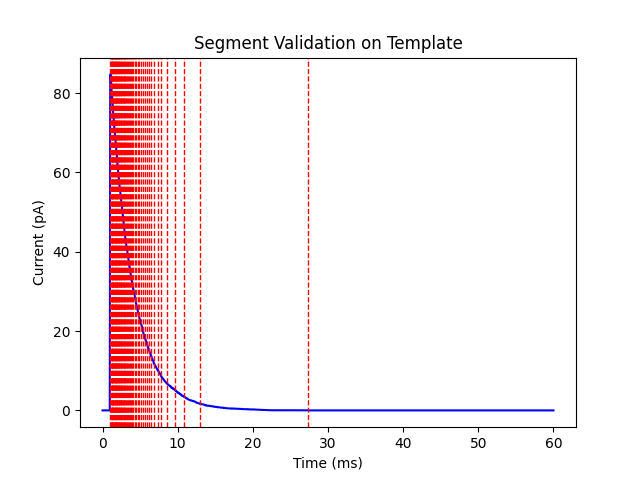
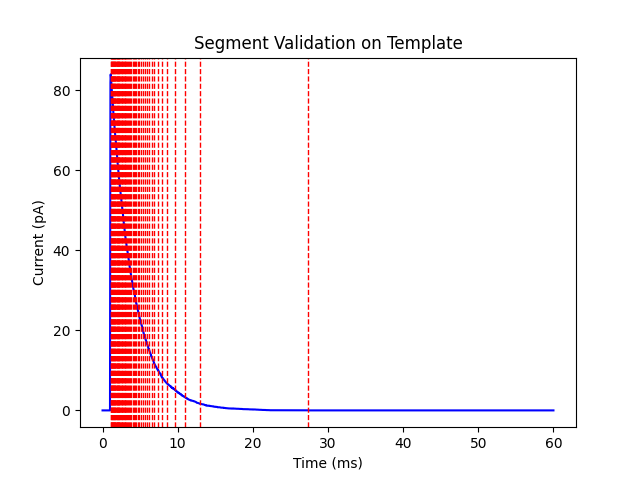
implementation of geiger

diff --git a/experimental-scripts/Geiger-Replication.py b/experimental-scripts/Geiger-Replication.py
@@ -1,0 +1,186 @@
+# Re-run the Gillespie simulation and plotting for the more complex Geiger model
+import numpy as np
+import matplotlib.pyplot as plt
+import pandas as pd
+from scipy.integrate import solve_ivp
+
+
+# Rate Constants
+kC0C1 = 17.1e6 #m-1s-1
+kC1C0 = 157
+kC1C2 = 3.24e6
+kC2C1 = 3.76e3
+kC2O = 14.9e3
+kOC2 = 4e3
+kC1C3 = 1.53e3
+kC3C1 = 408
+kC2C4 = 502
+kC4C2 = .377
+kOC5 = 121
+kC5O = 191
+kC3C4 = .611e6
+kC4C3 = 2
+kC4C5 = 1.59e3
+kC5C4 = 899e3
+
+
+
+
+
+N = 50 #num channels
+g = 8.5e-12 #conductance
+V_hold = -60e-3 #holding potential
+V_rev = 0  #reversal potential
+
+##Agonist Parameters
+agonist_conc = 1e-3
+pulse_start = 0.001 #Start at 1 ms
+pulse_end = pulse_start + .00001 #1 time step of 10microseconds
+
+
+##Time Parameters
+t_max = 0.01 # 10ms
+n_samples = 1000 #Time interval defined as 10microseconds, across 10ms, means 10,000microseconds and 1000 samples
+t_eval = np.linspace(0,t_max,n_samples)
+time_ms = t_eval * 1e3
+
+num_traces = 100
+
+def agonist_conc_t(t):
+    return agonist_conc if (pulse_start <= t <= pulse_end) else 0.0
+
+
+def rates_for_state(state, t):
+    if state == 'C0':
+        return [('C1', kC0C1 * agonist_conc_t(t))]
+    elif state == 'C1':
+        return [('C0', kC1C0), ('C3', kC1C3),('C2',kC1C2)]
+    elif state == 'C2':
+        return [('C1', kC2C1),('C4',kC2C4),('O',kC2O)]
+    elif state == 'C3':
+        return [('C1', kC3C1), ('C4', kC3C4)]
+    elif state == 'C4':
+        return [('C2', kC4C2), ('C5', kC4C5),('C3',kC4C3)]
+    elif state == 'C5':
+        return [('O', kC5O), ('C4', kC5C4)]
+    elif state == 'O':
+        return [('C2', kOC2), ('C5', kOC5)]
+    else:
+        raise ValueError
+
+def next_pulse_boundary_after(t):
+    boundaries = []
+    if t < pulse_start:
+        boundaries.append(pulse_start)
+    if t < pulse_end:
+        boundaries.append(pulse_end)
+    return min(boundaries) if boundaries else np.inf
+
+def simulate_one_channel(t_max):
+    t = 0.0
+    state = 'C0'
+    times = [t]
+    states = [state]
+    while t < t_max:
+        trans = rates_for_state(state, t) #[(1,0)] = trans
+        rates = np.array([r for (_, r) in trans])
+        a0 = rates.sum()
+        boundary = next_pulse_boundary_after(t)
+        if a0 <= 0:
+            t = min(boundary, t_max)
+            times.append(t)
+            states.append(state)
+            if t >= t_max:
+                break
+            continue
+        dt = -np.log(np.random.rand()) / a0
+        if t + dt > min(boundary, t_max):
+            t = min(boundary, t_max)
+            times.append(t)
+            states.append(state)
+            continue
+        t = t + dt
+        r = np.random.rand() * a0
+        cum = 0.0
+        chosen = None
+        for i, (_, rate) in enumerate(trans):
+            cum += rate
+            if r <= cum:
+                chosen = trans[i][0]
+                break
+        if chosen is None:
+            chosen = trans[-1][0]
+        state = chosen
+        times.append(t)
+        states.append(state)
+    if times[-1] < t_max:
+        times.append(t_max)
+        states.append(states[-1])
+    return np.array(times), np.array(states, str)
+
+
+def events_to_sampled_open(times, states, t_eval):
+    sampled = np.zeros_like(t_eval, dtype=int)
+    idx = 0
+    for i, tt in enumerate(t_eval):
+        while idx + 1 < len(times) and times[idx + 1] <= tt:
+            idx += 1
+        sampled[i] = 1 if states[idx] == 'O' else 0
+    return sampled
+
+# Single-channel example
+np.random.seed(1)
+times1, states1 = simulate_one_channel(t_max)
+open_trace1 = events_to_sampled_open(times1, states1, t_eval)
+
+plt.figure(figsize=(10,2.5))
+plt.step(time_ms, open_trace1, where='post')
+plt.ylim(-0.1, 1.1)
+plt.xlabel('Time (ms)')
+plt.ylabel('Open (1) / Closed (0)')
+plt.title('Single-channel stochastic trace (Gillespie SSA)')
+plt.tight_layout()
+plt.show()
+
+# Simulate N channels
+open_counts = np.zeros_like(t_eval, dtype=int)
+for n in range(N):
+    times_n, states_n = simulate_one_channel(t_max)
+    open_counts += events_to_sampled_open(times_n, states_n, t_eval)
+
+I = open_counts * g * (V_hold - V_rev)
+I_pA = I * 1e12
+
+# Simulate EPSCs
+all_traces = []
+
+for trace_id in range(num_traces):
+    open_counts = np.zeros_like(t_eval, dtype=int)
+
+    # simulate N independent channels and sum their openings
+    for n in range(N):
+        times_n, states_n = simulate_one_channel(t_max)
+        open_counts += events_to_sampled_open(times_n, states_n, t_eval)
+
+    # convert to current
+    I = open_counts * g * (V_hold - V_rev)  # Amps
+    I_pA = I * 1e12                         # picoAmps
+
+    all_traces.append(I_pA)
+
+# Convert to DataFrame: each column is one trace, rows are timepoints
+df = pd.DataFrame(np.array(all_traces).T, index=t_eval)
+
+plt.xlabel("Time (ms)")
+plt.ylabel("Current (pA)")
+for col in df.columns:
+    plt.plot(df.index*1e3,df[col],alpha=.3)
+template = np.mean(df,axis=1)
+plt.plot(df.index*1e3,template)
+plt.title("Traynelis Replica, 100 EPSCs")
+plt.show()
+df.columns = [f"trace_{i+1}" for i in range(num_traces)]
+
+
+df = df*-1
+df.to_excel("Geiger_replica_EPSCs.xlsx")
